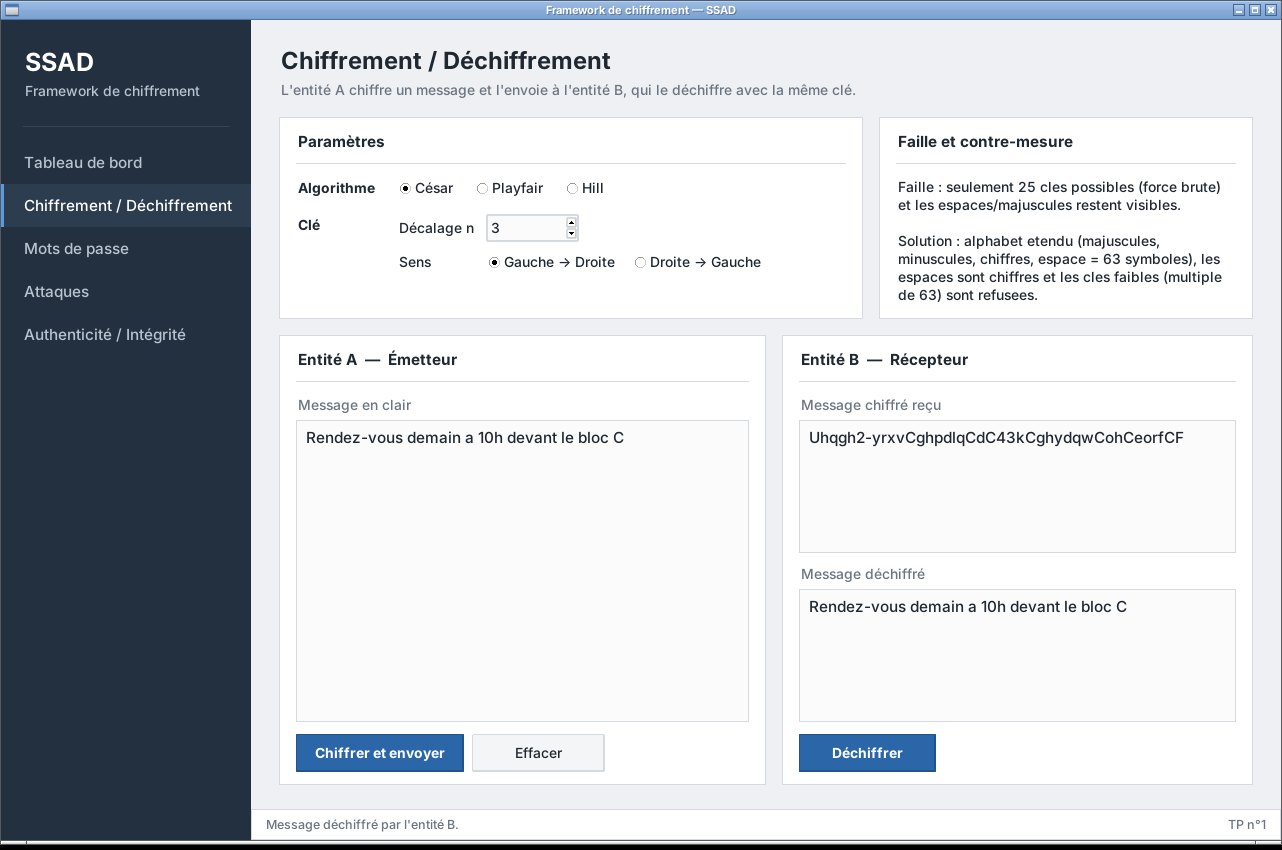
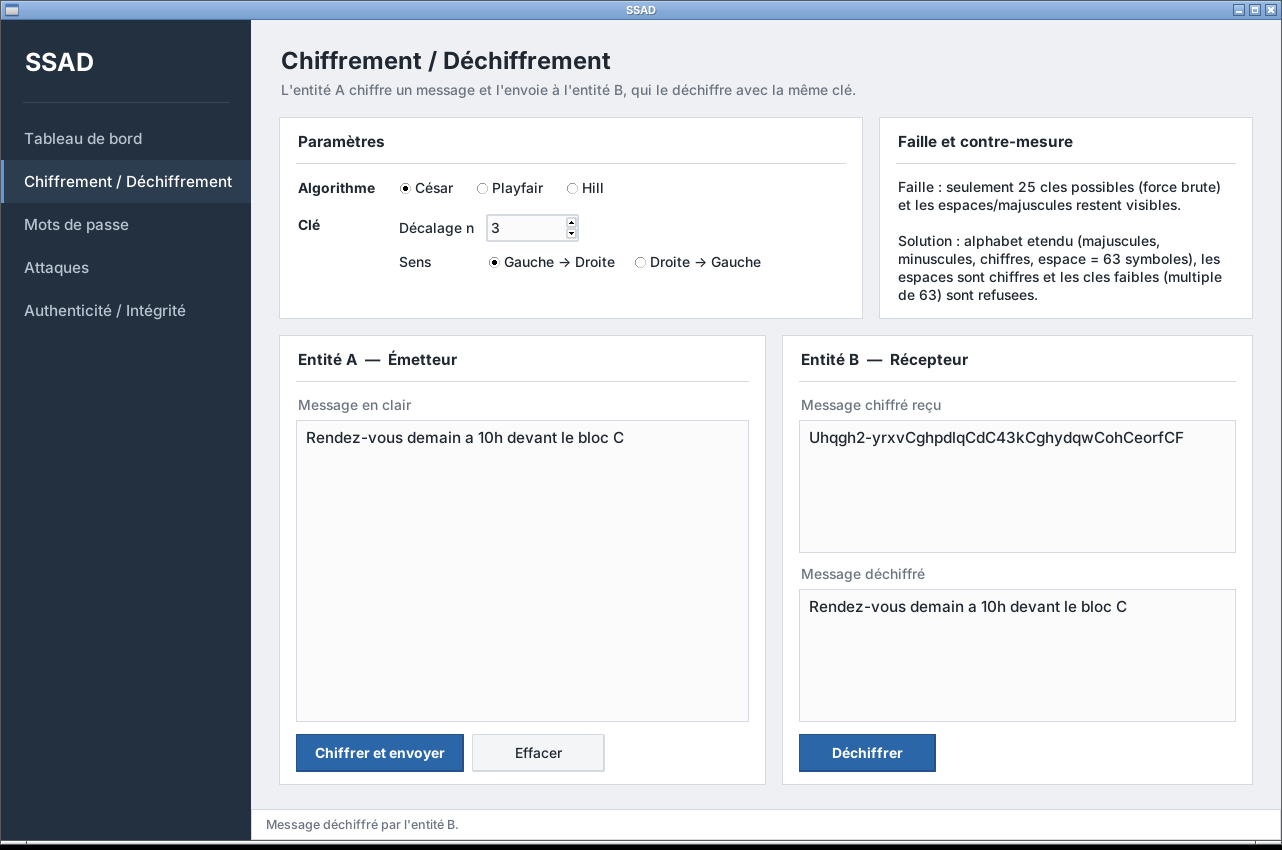
Interface : retrait de TP n°1, Pret. et Framework de chiffrement
Claude-Session: https://claude.ai/code/session_01J88oCW3q6BXk1MbiE73Ami

Changed region(s): [[0.0, 0.1529, 0.1872, 0.3976], [0.4368, 0.0, 0.5928, 0.0306], [0.0312, 0.0918, 0.156, 0.1224]]

diff --git a/interface.py b/interface.py
@@ -69,7 +69,7 @@ class Page(tk.Frame):
 
 class PageAccueil(Page):
     titre = "Tableau de bord"
-    sous_titre = "Framework de chiffrement  ·  TP n°1  ·  Sécurité des Systèmes et Audit de Données"
+    sous_titre = "Sécurité des Systèmes et Audit de Données"
 
     def __init__(self, parent, app):
         super().__init__(parent, app)
@@ -295,7 +295,7 @@ class PageChiffrement(Page):
     def effacer(self):
         for z in (self.message, self.chiffre, self.dechiffre):
             z.delete("1.0", "end")
-        self.app.statut("Prêt.")
+        self.app.statut("")
 
 
 CAS = [("Cas 1", "3 caractères  ·  valeurs 0 et 1", "01", 3),
@@ -509,7 +509,7 @@ class PageIntegrite(Page):
 class Application(tk.Tk):
     def __init__(self):
         super().__init__()
-        self.title("Framework de chiffrement — SSAD")
+        self.title("SSAD")
         self.geometry("1280x820")
         self.minsize(1180, 760)
         self.configure(bg=FOND)
@@ -519,9 +519,7 @@ class Application(tk.Tk):
         menu = tk.Frame(self, bg=MENU, width=250)
         menu.pack(side="left", fill="y")
         menu.pack_propagate(False)
-        tk.Label(menu, text="SSAD", bg=MENU, fg="white", font=(self.police, 18, "bold")).pack(anchor="w", padx=22, pady=(24, 0))
-        tk.Label(menu, text="Framework de chiffrement", bg=MENU, fg=MENU_TEXTE,
-                 font=(self.police, 10)).pack(anchor="w", padx=22, pady=(0, 24))
+        tk.Label(menu, text="SSAD", bg=MENU, fg="white", font=(self.police, 18, "bold")).pack(anchor="w", padx=22, pady=(24, 22))
         tk.Frame(menu, bg="#34465a", height=1).pack(fill="x", padx=22, pady=(0, 14))
 
         self.boutons = {}
@@ -547,9 +545,8 @@ class Application(tk.Tk):
         droite.pack(side="left", fill="both", expand=True)
         barre = tk.Frame(droite, bg=CARTE, highlightbackground=BORDURE, highlightthickness=1)
         barre.pack(side="bottom", fill="x")
-        self.texte_statut = tk.Label(barre, text="Prêt.", bg=CARTE, fg=GRIS, font=(self.police, 9), anchor="w")
+        self.texte_statut = tk.Label(barre, text="", bg=CARTE, fg=GRIS, font=(self.police, 9), anchor="w")
         self.texte_statut.pack(side="left", padx=12, pady=4)
-        tk.Label(barre, text="TP n°1", bg=CARTE, fg=GRIS, font=(self.police, 9)).pack(side="right", padx=12)
 
         zone = tk.Frame(droite, bg=FOND)
         zone.pack(fill="both", expand=True)
@@ -607,7 +604,7 @@ class Application(tk.Tk):
                 repere.config(bg=MENU)
                 b.config(bg=MENU, fg=MENU_TEXTE)
         self.pages[cle].tkraise()
-        self.statut("Prêt.")
+        self.statut("")
 
     def statut(self, texte):
         self.texte_statut.config(text=texte)
